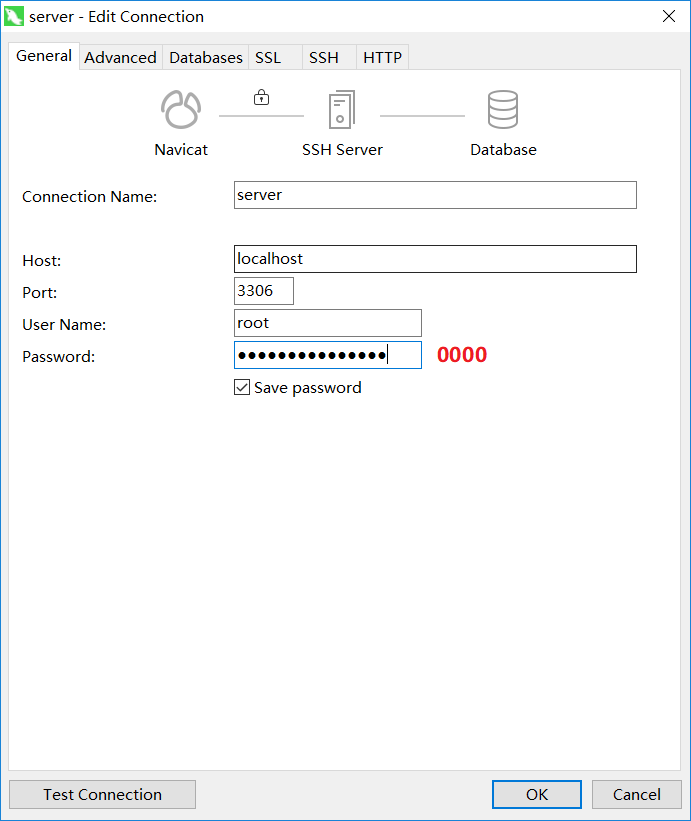
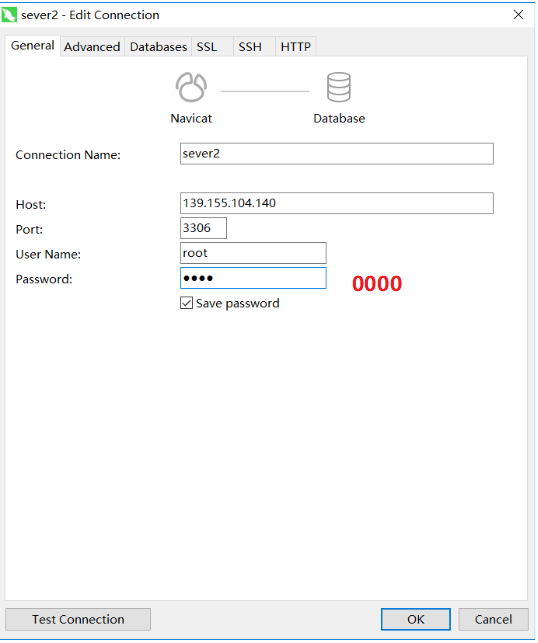
更新数据库连接方式

diff --git a/STSAdmin/src/StockTradingSystem/controller/InterManageUIController.java b/STSAdmin/src/StockTradingSystem/controller/InterManageUIController.java
@@ -78,16 +78,9 @@ public class InterManageUIController extends AdminUIController {
         // TODO 连接数据库，并将stock信息放到arraylist中
 
         try {
-            // SSH 连接
-            JSch jsch = new JSch();
-            Session session = jsch.getSession("ubuntu","139.155.104.140",22);
-            session.setPassword("h4C4TNc6fE2Svmh");
-            session.setConfig("StrictHostKeyChecking", "no");
-            session.connect();
-            session.setPortForwardingL(3307, "localhost", 3306);
-
+            // TODO 加密JDBC
             Class.forName("com.mysql.cj.jdbc.Driver");
-            Connection conn= DriverManager.getConnection("jdbc:mysql://localhost:3307/stock_trading_system" +
+            Connection conn= DriverManager.getConnection("jdbc:mysql://139.155.104.140:3306/stock_trading_system" +
                     "?useSSL=false" +
                     "&serverTimezone=GMT" +
                     "&allowPublicKeyRetrieval=true", "root","0000");
@@ -108,7 +101,7 @@ public class InterManageUIController extends AdminUIController {
                 stockObservableList.add(st);
             }
             conn.close();
-        } catch (SQLException | ClassNotFoundException | JSchException e){
+        } catch (SQLException | ClassNotFoundException e){
             e.printStackTrace();
         }
 

diff --git a/代码规范.md b/代码规范.md
@@ -65,36 +65,33 @@ Scene Builder要导入该JAR包方法如下：
 
 ## JDBC以及MySQL相关
 
-### 登陆判断（v0）
+### JDBC配置文件加密
 
-先`CREATE`一个拥有低权限的`USER`，然后用这个`USER`来连接数据库，比对账号密码进行判断。
+// TODO
 
 
 
-### 连接挂载于云服务器的MySQL数据库
+### 登陆判断(更新)
+
+先`CREATE`一个拥有权限的`USER`，然后用这个`USER`来连接数据库，比对账号密码进行判断。
+
+
+
+### 连接挂载于云服务器的MySQL数据库 (更新)
 
 连接代码：
 
 ```java
-JSch jsch = new JSch();
-Session session = jsch.getSession("ubuntu","139.155.104.140",22);
-session.setPassword("h4C4TNc6fE2Svmh");
-session.setConfig("StrictHostKeyChecking", "no");
-session.connect();
-session.setPortForwardingL(3307, "localhost", 3306);
-
 Class.forName("com.mysql.cj.jdbc.Driver");
-Connection conn= DriverManager.getConnection("jdbc:mysql://localhost:3307/stock_trading_system" +
+Connection conn= DriverManager.getConnection("jdbc:mysql://139.155.104.140:3306/stock_trading_system" +
         "?useSSL=false" +
         "&serverTimezone=GMT" +
         "&allowPublicKeyRetrieval=true", "root","0000");
 ```
 
-其中Jsch的下载地址：<https://sourceforge.net/projects/jsch/>（将JAR包导入Project Sturcture）
 
 
-
-### 修改云服务器中MySQL数据库的内容
+### 修改云服务器中MySQL数据库的内容（更新）
 
 首先，下载Navicat for MySQL。
 
@@ -104,13 +101,9 @@ Connection conn= DriverManager.getConnection("jdbc:mysql://localhost:3307/stock_
 
 ![1558089020580](https://github.com/Great-Keith/SbockBradingBystem/raw/master/assets/mysql1.png)
 
-修改两个地方：第一个地方General：
+修改General：
 
 ![1558089098658](https://github.com/Great-Keith/SbockBradingBystem/raw/master/assets/mysql2.png)
-
-第2个地方SSH：
-
-![1558089157366](https://github.com/Great-Keith/SbockBradingBystem/raw/master/assets/mysql3.png)
 
 修改完后点击下方的`Test Connection`，如果出现如下图，则表示成功：
 
